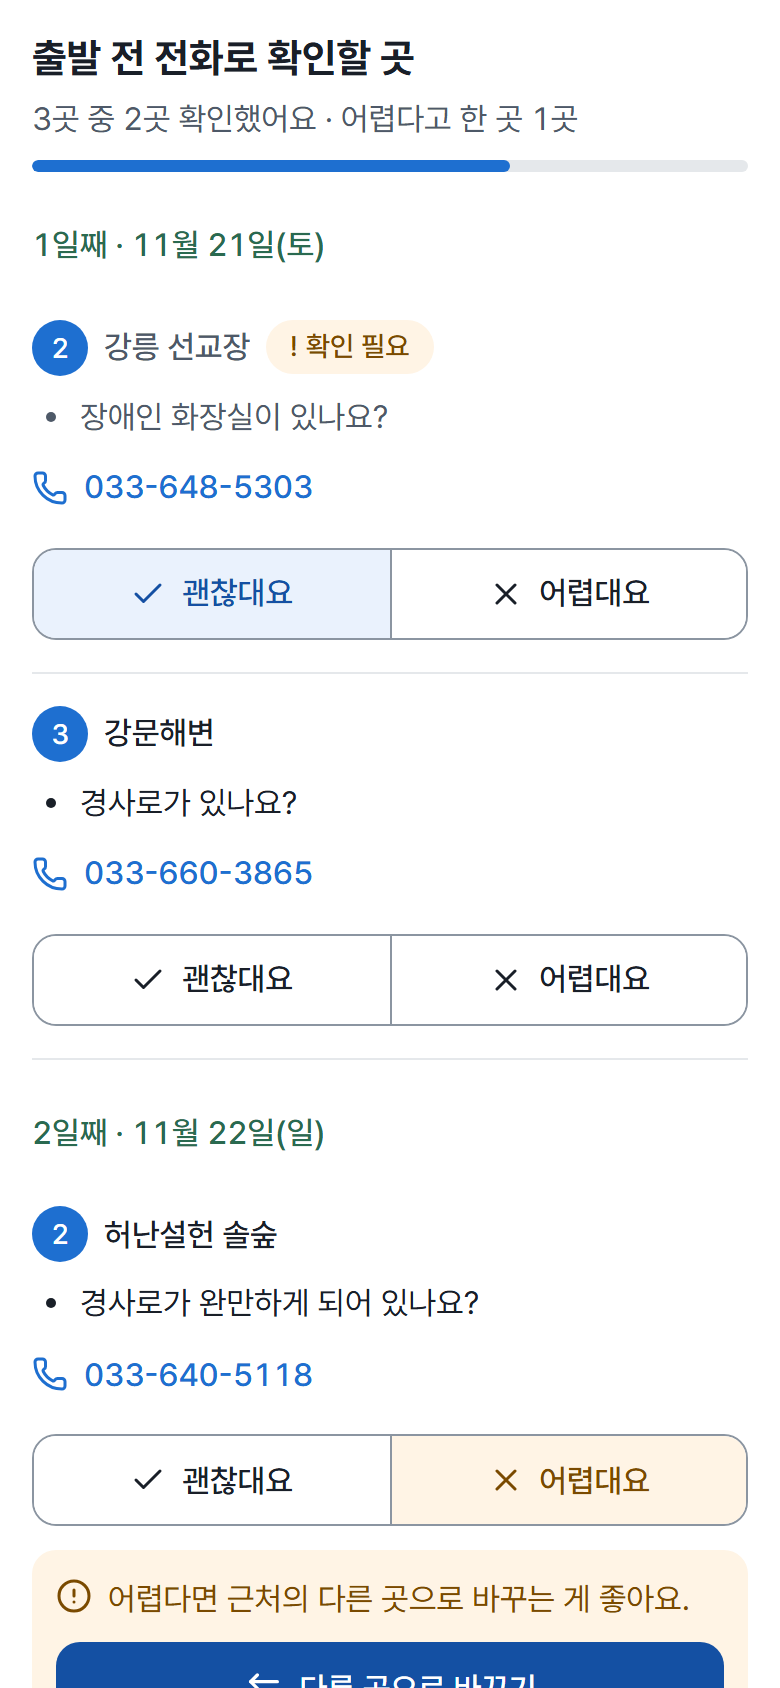
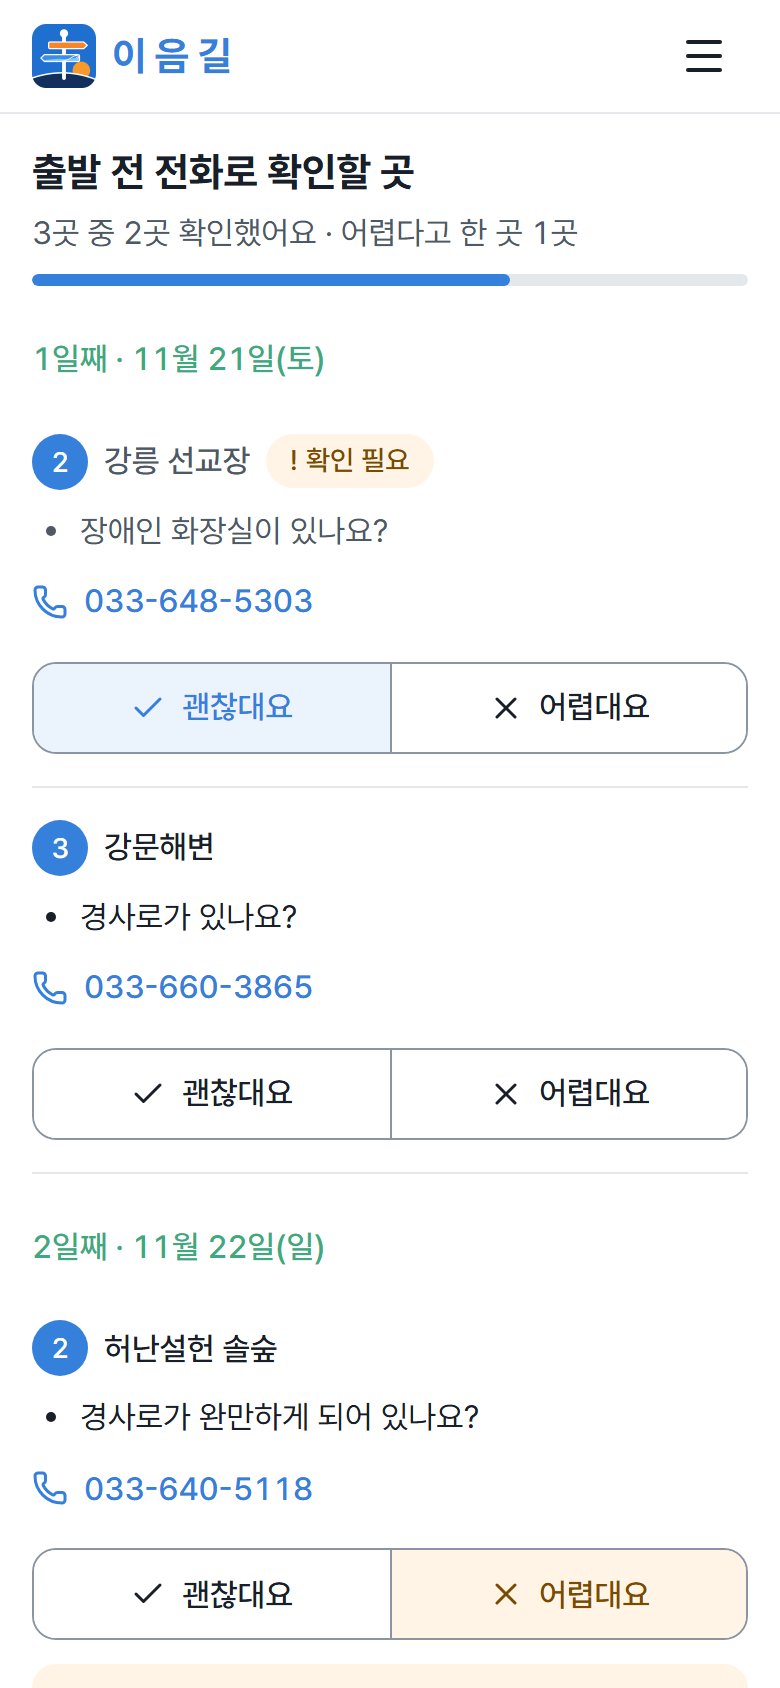
fix: 시작 화면 단계 소개 휴대폰 화면 — 2·3단계도 머리줄이 보이게 다시 찍고 휴대폰 틀에 상태 줄 추가

diff --git a/scripts/readme/capture.ts b/scripts/readme/capture.ts
@@ -67,8 +67,9 @@ const SHOTS: Shot[] = [
     act: async (p) => {
       const more = p.getByRole("button", { name: /자세히/ }).first();
       await more.click();
+      const h = await pinHeader(p);
       await p.locator("article").first().evaluate((el) => el.scrollIntoView({ block: "start" }));
-      await p.evaluate(() => window.scrollBy(0, -12));
+      await p.evaluate((y) => window.scrollBy(0, -y), h + 12);
     },
   },
   {
@@ -91,8 +92,9 @@ const SHOTS: Shot[] = [
       // 확인할 곳이 둘 이상이면 하나는 괜찮대요, 하나는 어렵대요(바꾸기 권유가 보이게). 하나뿐이면 어렵대요
       if ((await g.count()) > 1) await g.nth(0).getByRole("button", { name: "괜찮대요" }).click();
       await g.last().getByRole("button", { name: "어렵대요" }).click();
+      const h = await pinHeader(p);
       await p.locator("#checklist-title").evaluate((el) => el.scrollIntoView({ block: "start" }));
-      await p.evaluate(() => window.scrollBy(0, -16));
+      await p.evaluate((y) => window.scrollBy(0, -y), h + 16);
       await p.waitForTimeout(300);
     },
   },
@@ -147,6 +149,16 @@ const SHOTS: Shot[] = [
 
 /** 시작 화면 미리보기에 쓰는 캡처 */
 const PREVIEW: Record<string, string> = { "04-conditions": "step-conditions", "08-result-detail": "step-card", "12-checklist": "step-call" };
+
+/** 페이지 중간을 찍을 때도 사이트 머리줄(로고 · 메뉴)이 위에 보이게 화면 위에 붙인다 → 머리줄 높이를 돌려준다.
+ *  시작 화면 단계 소개의 휴대폰 화면(08·12)이 '확대해서 잘라 낸 그림'처럼 보이지 않게(11/24). 실제 머리줄은 따라오지 않는다 */
+async function pinHeader(p: Page) {
+  return p.evaluate(() => {
+    const h = document.querySelector("header")!;
+    Object.assign(h.style, { position: "fixed", top: "0", left: "0", right: "0" });
+    return h.getBoundingClientRect().height;
+  });
+}
 
 async function waitMap(p: Page) {
   await p.getByText(/차량 약 \d+분|직선으로|불러오지 못했어요/).first().waitFor({ timeout: 20_000 });

diff --git a/src/app/globals.css b/src/app/globals.css
@@ -852,12 +852,22 @@ label:has(input[type="checkbox"]) {
   opacity: 0.9;
 }
 .intro-phone {
+  position: relative;
   width: 15rem;
   overflow: hidden;
   border: 0.5rem solid var(--color-ink);
   border-radius: 2.25rem;
   background: var(--color-ink);
   box-shadow: 0 1.5rem 3rem rgb(25 31 40 / 0.16);
+}
+/* 휴대폰 위쪽 상태 줄(가운데 카메라 자리) — 세 화면 모두 실제 휴대폰처럼 보이게(11/24). README 휴대폰 틀(capture.ts frames)과 같은 모양 */
+.intro-phone::before {
+  content: "";
+  display: block;
+  height: 1.25rem;
+  background:
+    radial-gradient(closest-side, var(--color-ink) 92%, transparent) center / 3.5rem 0.75rem no-repeat,
+    #fff;
 }
 .intro-phone__screen {
   display: block;
